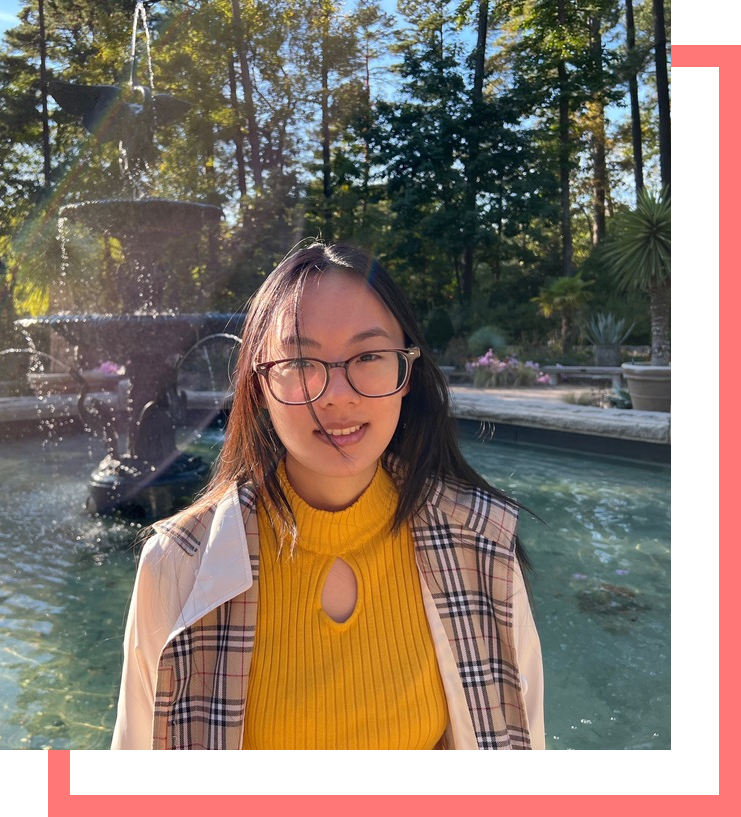
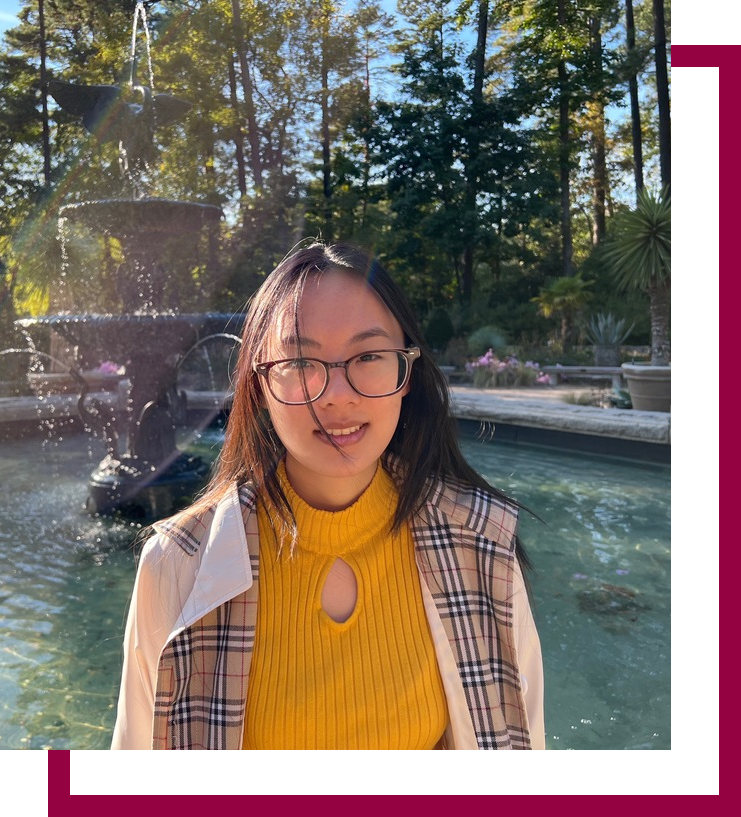
adjust color scheme

Changed region(s): [[0.0621, 0.0306, 1.0, 1.0]]

diff --git a/index.html b/index.html
@@ -16,11 +16,11 @@
         <a class="navbar-brand" href="index.html" id="logo">
             <svg width="80" height="45" viewBox="0 0 71 111" fill="none" xmlns="http://www.w3.org/2000/svg">
                 <path d="M1.5 11.5V95L53.5 108.5V93L19 83.5V67L33.5 71L40.5 73V57L19 51V32L33.5 36L53.5 41.5V26.5L1.5 11.5Z" fill="#FFEAEA"/>
-                <path d="M19 67V83.5L33.5 75.5V71L19 67Z" fill="#FF7777"/>
-                <path d="M19 32V51L33.5 45.5V36L19 32Z" fill="#FF7777"/>
-                <path d="M40.5 57V73L53.5 66.5V51L40.5 57Z" fill="#FF7777"/>
-                <path d="M53.5 26.5V41.5L69.5 32V17L53.5 26.5Z" fill="#FF7777"/>
-                <path d="M53.5 93V108.5L69.5 99V85L53.5 93Z" fill="#FF7777"/>
+                <path d="M19 67V83.5L33.5 75.5V71L19 67Z" fill="#940242"/>
+                <path d="M19 32V51L33.5 45.5V36L19 32Z" fill="#940242"/>
+                <path d="M40.5 57V73L53.5 66.5V51L40.5 57Z" fill="#940242"/>
+                <path d="M53.5 26.5V41.5L69.5 32V17L53.5 26.5Z" fill="#940242"/>
+                <path d="M53.5 93V108.5L69.5 99V85L53.5 93Z" fill="#940242"/>
                 <path d="M19 51L40.5 57L53.5 51L33.5 45.5L19 51Z" fill="#FFC5C5"/>
                 <path d="M1.5 11.5L53.5 26.5L69.5 17L18 2.5L1.5 11.5Z" fill="#FFC5C5"/>
                 <path d="M19 83.5L53.5 93L69.5 85L33.5 75.5L19 83.5Z" fill="#FFC5C5"/>
@@ -104,7 +104,6 @@
     </main>
     <footer>
         <div class="socials">
-            
             <a id="email-link" href="mai&#108;to&#58;%65%&#54;C&#37;61%69n&#101;&#100;o%6E&#37;67&#53;&#37;3&#50;%3&#48;&#64;g&#109;%6&#49;i%6&#67;&#37;2Ec%6Fm" target="_blank">
                 <svg xmlns="http://www.w3.org/2000/svg" width="30" height="30" fill="currentColor" class="bi bi-envelope" viewBox="0 0 16 16">
                     <path d="M0 4a2 2 0 0 1 2-2h12a2 2 0 0 1 2 2v8a2 2 0 0 1-2 2H2a2 2 0 0 1-2-2V4Zm2-1a1 1 0 0 0-1 1v.217l7 4.2 7-4.2V4a1 1 0 0 0-1-1H2Zm13 2.383-4.708 2.825L15 11.105V5.383Zm-.034 6.876-5.64-3.471L8 9.583l-1.326-.795-5.64 3.47A1 1 0 0 0 2 13h12a1 1 0 0 0 .966-.741ZM1 11.105l4.708-2.897L1 5.383v5.722Z"/>

diff --git a/css/styles.css b/css/styles.css
@@ -12,7 +12,7 @@ body {
 }
 
 .dark-mode {
-    background-color: #331917 !important;
+    background-color: #121212 !important;
     color: white !important;
 }
 
@@ -60,8 +60,6 @@ svg {
 
 /* Underline */
 
-/* underline hover effect */
-
 a, a > span {
     position: relative;
     color: inherit;
@@ -80,7 +78,7 @@ a:before, a:after, a > span:before, a > span:after {
     bottom: 0;
     width: 100%;
     height: 2px;
-    background: #ff776a;
+    background: #940242;
     transform: scaleX(0);
 }
 .underline-hover:hover:before, .underline-hover:focus:before {
@@ -163,7 +161,7 @@ li a {
 }
 
 li a:hover, li a:focus, .active {
-    color: #ff9494 !important;
+    color: #C4457C !important;
 }
 
 /* Header */
@@ -188,13 +186,13 @@ header {
 }
 
 .greeting h1 {
-    color: #ff9494;
+    color: #C4457C;
     font-size: 40px;
     font-family: 'Rubik', sans-serif;
 }
 
 .greeting h2 {
-    color: #ff776a;
+    color: #940242;
     font-size:45px;
     font-family: 'Roboto Mono', monospace;
 }
@@ -274,7 +272,7 @@ header {
 }
 
 .tag {
-    border: 1px solid #FF7777;
+    border: 1px solid #940242;
     padding: 2px 8px;
     margin: 4px;
     border-radius: 5px;
@@ -301,11 +299,11 @@ section {
 }
 
 .pink {
-    background-color: #ffe6e6;
+    background-color: #faecf2;
 }
 
 .blue {
-    background-color: #d5f4ff;
+    background-color: #e2f7ff;
 }
 
 .grey {
@@ -339,7 +337,7 @@ svg:hover, svg:focus {
 }
 
 footer p {
-    font-size: 12px;
+    font-size: 16px;
 }
 
 /* Top button */
@@ -367,7 +365,8 @@ html {
 }
 
 #top:hover, #top:focus {
-    background-color: #FF7777;
+    background-color: #940242;
+    color: white;
 }
 
 /* Buttons */
@@ -384,12 +383,12 @@ html {
 }
 
 .btn-pink {
-    border: 2px solid #FF7777;
+    border: 2px solid #940242;
 }
 
 .btn-pink:hover, .btn-pink:focus {
     color: white !important;
-    background-color: #FF7777;
+    background-color: #940242;
 }
 
 .btn-blue {

diff --git a/projects/atb.html b/projects/atb.html
@@ -18,11 +18,11 @@
         <a class="navbar-brand" href="../index.html" id="logo">
             <svg width="80" height="45" viewBox="0 0 71 111" fill="none" xmlns="http://www.w3.org/2000/svg">
                 <path d="M1.5 11.5V95L53.5 108.5V93L19 83.5V67L33.5 71L40.5 73V57L19 51V32L33.5 36L53.5 41.5V26.5L1.5 11.5Z" fill="#FFEAEA"/>
-                <path d="M19 67V83.5L33.5 75.5V71L19 67Z" fill="#FF7777"/>
-                <path d="M19 32V51L33.5 45.5V36L19 32Z" fill="#FF7777"/>
-                <path d="M40.5 57V73L53.5 66.5V51L40.5 57Z" fill="#FF7777"/>
-                <path d="M53.5 26.5V41.5L69.5 32V17L53.5 26.5Z" fill="#FF7777"/>
-                <path d="M53.5 93V108.5L69.5 99V85L53.5 93Z" fill="#FF7777"/>
+                <path d="M19 67V83.5L33.5 75.5V71L19 67Z" fill="#940242"/>
+                <path d="M19 32V51L33.5 45.5V36L19 32Z" fill="#940242"/>
+                <path d="M40.5 57V73L53.5 66.5V51L40.5 57Z" fill="#940242"/>
+                <path d="M53.5 26.5V41.5L69.5 32V17L53.5 26.5Z" fill="#940242"/>
+                <path d="M53.5 93V108.5L69.5 99V85L53.5 93Z" fill="#940242"/>
                 <path d="M19 51L40.5 57L53.5 51L33.5 45.5L19 51Z" fill="#FFC5C5"/>
                 <path d="M1.5 11.5L53.5 26.5L69.5 17L18 2.5L1.5 11.5Z" fill="#FFC5C5"/>
                 <path d="M19 83.5L53.5 93L69.5 85L33.5 75.5L19 83.5Z" fill="#FFC5C5"/>

diff --git a/projects/ktp.html b/projects/ktp.html
@@ -18,11 +18,11 @@
         <a class="navbar-brand" href="../index.html" id="logo">
             <svg width="80" height="45" viewBox="0 0 71 111" fill="none" xmlns="http://www.w3.org/2000/svg">
                 <path d="M1.5 11.5V95L53.5 108.5V93L19 83.5V67L33.5 71L40.5 73V57L19 51V32L33.5 36L53.5 41.5V26.5L1.5 11.5Z" fill="#FFEAEA"/>
-                <path d="M19 67V83.5L33.5 75.5V71L19 67Z" fill="#FF7777"/>
-                <path d="M19 32V51L33.5 45.5V36L19 32Z" fill="#FF7777"/>
-                <path d="M40.5 57V73L53.5 66.5V51L40.5 57Z" fill="#FF7777"/>
-                <path d="M53.5 26.5V41.5L69.5 32V17L53.5 26.5Z" fill="#FF7777"/>
-                <path d="M53.5 93V108.5L69.5 99V85L53.5 93Z" fill="#FF7777"/>
+                <path d="M19 67V83.5L33.5 75.5V71L19 67Z" fill="#940242"/>
+                <path d="M19 32V51L33.5 45.5V36L19 32Z" fill="#940242"/>
+                <path d="M40.5 57V73L53.5 66.5V51L40.5 57Z" fill="#940242"/>
+                <path d="M53.5 26.5V41.5L69.5 32V17L53.5 26.5Z" fill="#940242"/>
+                <path d="M53.5 93V108.5L69.5 99V85L53.5 93Z" fill="#940242"/>
                 <path d="M19 51L40.5 57L53.5 51L33.5 45.5L19 51Z" fill="#FFC5C5"/>
                 <path d="M1.5 11.5L53.5 26.5L69.5 17L18 2.5L1.5 11.5Z" fill="#FFC5C5"/>
                 <path d="M19 83.5L53.5 93L69.5 85L33.5 75.5L19 83.5Z" fill="#FFC5C5"/>

diff --git a/about.html b/about.html
@@ -17,11 +17,11 @@
         <a class="navbar-brand" href="index.html" id="logo">
             <svg width="80" height="45" viewBox="0 0 71 111" fill="none" xmlns="http://www.w3.org/2000/svg">
                 <path d="M1.5 11.5V95L53.5 108.5V93L19 83.5V67L33.5 71L40.5 73V57L19 51V32L33.5 36L53.5 41.5V26.5L1.5 11.5Z" fill="#FFEAEA"/>
-                <path d="M19 67V83.5L33.5 75.5V71L19 67Z" fill="#FF7777"/>
-                <path d="M19 32V51L33.5 45.5V36L19 32Z" fill="#FF7777"/>
-                <path d="M40.5 57V73L53.5 66.5V51L40.5 57Z" fill="#FF7777"/>
-                <path d="M53.5 26.5V41.5L69.5 32V17L53.5 26.5Z" fill="#FF7777"/>
-                <path d="M53.5 93V108.5L69.5 99V85L53.5 93Z" fill="#FF7777"/>
+                <path d="M19 67V83.5L33.5 75.5V71L19 67Z" fill="#940242"/>
+                <path d="M19 32V51L33.5 45.5V36L19 32Z" fill="#940242"/>
+                <path d="M40.5 57V73L53.5 66.5V51L40.5 57Z" fill="#940242"/>
+                <path d="M53.5 26.5V41.5L69.5 32V17L53.5 26.5Z" fill="#940242"/>
+                <path d="M53.5 93V108.5L69.5 99V85L53.5 93Z" fill="#940242"/>
                 <path d="M19 51L40.5 57L53.5 51L33.5 45.5L19 51Z" fill="#FFC5C5"/>
                 <path d="M1.5 11.5L53.5 26.5L69.5 17L18 2.5L1.5 11.5Z" fill="#FFC5C5"/>
                 <path d="M19 83.5L53.5 93L69.5 85L33.5 75.5L19 83.5Z" fill="#FFC5C5"/>

diff --git a/resume.html b/resume.html
@@ -17,11 +17,11 @@
         <a class="navbar-brand" href="index.html" id="logo">
             <svg width="80" height="45" viewBox="0 0 71 111" fill="none" xmlns="http://www.w3.org/2000/svg">
                 <path d="M1.5 11.5V95L53.5 108.5V93L19 83.5V67L33.5 71L40.5 73V57L19 51V32L33.5 36L53.5 41.5V26.5L1.5 11.5Z" fill="#FFEAEA"/>
-                <path d="M19 67V83.5L33.5 75.5V71L19 67Z" fill="#FF7777"/>
-                <path d="M19 32V51L33.5 45.5V36L19 32Z" fill="#FF7777"/>
-                <path d="M40.5 57V73L53.5 66.5V51L40.5 57Z" fill="#FF7777"/>
-                <path d="M53.5 26.5V41.5L69.5 32V17L53.5 26.5Z" fill="#FF7777"/>
-                <path d="M53.5 93V108.5L69.5 99V85L53.5 93Z" fill="#FF7777"/>
+                <path d="M19 67V83.5L33.5 75.5V71L19 67Z" fill="#940242"/>
+                <path d="M19 32V51L33.5 45.5V36L19 32Z" fill="#940242"/>
+                <path d="M40.5 57V73L53.5 66.5V51L40.5 57Z" fill="#940242"/>
+                <path d="M53.5 26.5V41.5L69.5 32V17L53.5 26.5Z" fill="#940242"/>
+                <path d="M53.5 93V108.5L69.5 99V85L53.5 93Z" fill="#940242"/>
                 <path d="M19 51L40.5 57L53.5 51L33.5 45.5L19 51Z" fill="#FFC5C5"/>
                 <path d="M1.5 11.5L53.5 26.5L69.5 17L18 2.5L1.5 11.5Z" fill="#FFC5C5"/>
                 <path d="M19 83.5L53.5 93L69.5 85L33.5 75.5L19 83.5Z" fill="#FFC5C5"/>

diff --git a/css/other-styles.css b/css/other-styles.css
@@ -68,6 +68,10 @@ iframe {
     font-weight: 300;
 }
 
+.resume-section h4 {
+    color: #940242;
+}
+
 .experience {
     display:flex;
     flex-flow: row wrap;
